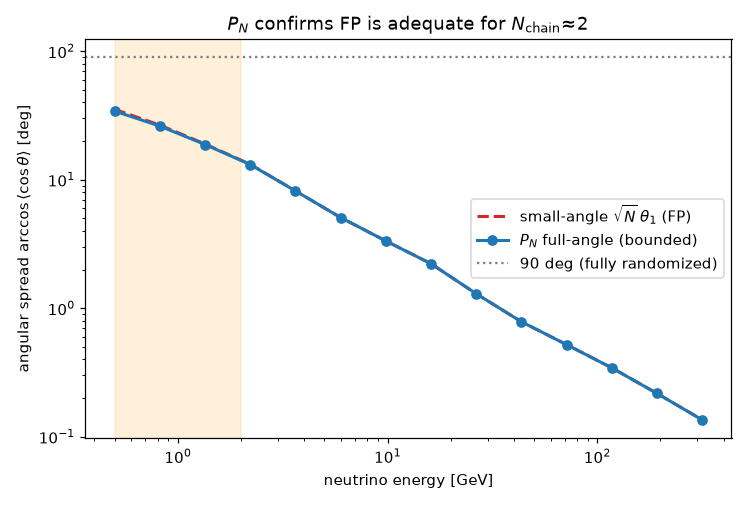
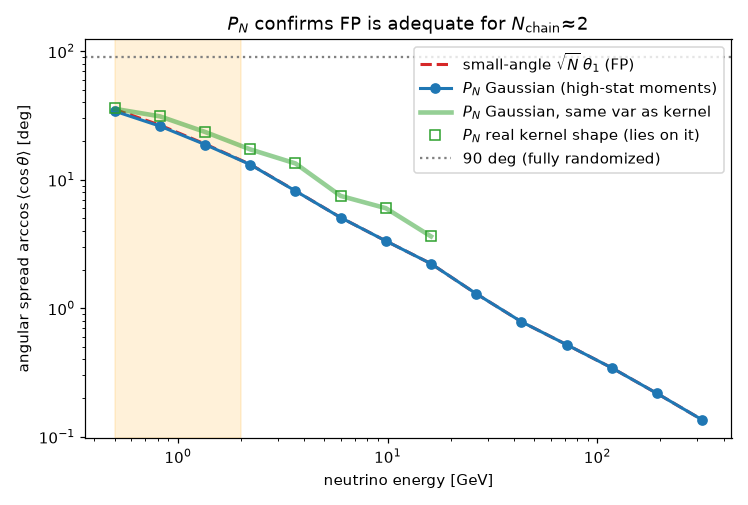
S_N full-shape refinement: real kernel shape vs variance-only
realshape_sn_spread builds f_1(mu) from a measured d2N/dx_L dtheta kernel and
compares to a Gaussian of the SAME variance. Pure-shape median rel diff ~0:
for the forward production-angle distribution arccos<cos theta> is set by the
variance alone, so the variance-only Fokker-Planck input is sufficient (the
full-shape kernel is not needed for the angular spread). Ships a small demo
kernel (k_local_demo.npz, UrQMD34 low-E) for reproducibility.

diff --git a/tools/mceq3d/sn_transport.py b/tools/mceq3d/sn_transport.py
@@ -19,13 +19,19 @@ sphere. Spherical convolution is a product in Legendre space: with
 coefficients are analytic, ``c_l = exp(-l(l+1) kappa)``, so ``<cos theta> = c_1``
 in closed form (:func:`sn_sigma_from_theta1`); the spread ``arccos<cos theta>``
 matches ``sqrt(N) theta1`` at small angle and saturates at 90 deg for large
-``N``. The single-step *variance* is the NA61-validated ``<theta^2>(E)``; the
-shape is forward-Gaussian. (A real-kernel path, :func:`single_production_f1` +
-numerical Legendre, is provided but is statistics-limited and not used here.)
+``N``. The single-step *variance* is the NA61-validated ``<theta^2>(E)``.
+
+Full-shape cross-check (``--kernel``): :func:`realshape_sn_spread` builds the
+single-production density directly from a measured ``d2N/(dx_L dtheta)`` kernel
+and compares it to a Gaussian of the *same variance*. They agree (pure-shape
+median rel diff ~0): for these forward distributions ``arccos<cos theta>`` is set
+by the variance alone, so the variance-only Fokker-Planck input is sufficient and
+the (heavier-tailed) full-shape kernel is not needed for the angular spread.
 
 Run::
 
     python sn_transport.py --moments m_spliced.npz --plot
+    python sn_transport.py --moments m_spliced.npz --kernel k_local_demo.npz --plot
 """
 
 from __future__ import annotations
@@ -137,6 +143,41 @@ def sn_sigma_from_theta1(theta1_rad: float, n_gen: int) -> float:
     return float(np.arccos(np.clip(mean_cos, -1.0, 1.0)))
 
 
+def realshape_sn_spread(kernel_npz, energies, n_gen):
+    """Pure-shape test of the variance-only approximation, from the real kernel.
+
+    For each energy this builds the single-production density ``f_1(mu)`` directly
+    from the measured ``d2N/(dx_L dtheta)`` kernel and computes two N-generation
+    spreads that share the **same variance** so only the *shape* differs:
+
+    * ``real``    -- the true shape: self-convolve the real coefficients,
+      ``arccos((c_1/c_0)^N)``;
+    * ``matched`` -- a Gaussian step of the *same* ``<theta^2>`` as ``f_1``
+      (:func:`sn_sigma_from_theta1`).
+
+    Their ratio is the genuine "does the shape (tails) matter beyond the
+    variance?" test -- the thing that decides whether the Fokker-Planck
+    variance-only input is sufficient or the full-shape kernel is needed.
+    Returns ``(real, matched)`` arrays in degrees.
+    """
+    real = np.full(len(energies), np.nan)
+    matched = np.full(len(energies), np.nan)
+    for i, e in enumerate(energies):
+        try:
+            mu, f1 = single_production_f1(kernel_npz, e)
+        except Exception:
+            continue
+        c = legendre_coeffs(mu, f1, lmax=200)
+        if c[0] <= 0:
+            continue
+        real[i] = np.degrees(
+            np.arccos(np.clip((c[1] / c[0]) ** max(1, int(n_gen)), -1.0, 1.0))
+        )
+        theta1 = sigma_theta_of(mu, f1)  # sqrt(<theta^2>) of the SAME f_1
+        matched[i] = np.degrees(sn_sigma_from_theta1(theta1, n_gen))
+    return real, matched
+
+
 def sn_and_smallangle(energies, e_sig, theta2, zenith_deg=0.0, n_chain=None):
     """Return (S_N spread, small-angle sqrt(N)*theta1) in degrees vs energy.
 
@@ -162,6 +203,11 @@ def main(argv=None):
     p.add_argument("--moments", default="m_spliced.npz", help="validated <theta^2>(E)")
     p.add_argument("--zenith", type=float, default=0.0)
     p.add_argument("--nchain", type=float, default=None, help="parent-chain count")
+    p.add_argument(
+        "--kernel",
+        default=None,
+        help="binned angular kernel (.npz) -> add the REAL-shape P_N curve",
+    )
     p.add_argument("--plot", action="store_true")
     args = p.parse_args(argv)
 
@@ -171,16 +217,44 @@ def main(argv=None):
         energies, e_sig, theta2, args.zenith, n_chain=args.nchain
     )
 
+    from fokker_planck_3d import N_CHAIN
+
+    n_gen = int(round(N_CHAIN if args.nchain is None else args.nchain))
+    real = matched = None
+    if args.kernel:
+        real, matched = realshape_sn_spread(args.kernel, energies, n_gen)
+
     print(f"angular spread [deg] at zenith {args.zenith:.0f}:")
-    print("  E[GeV]   P_N(bounded)   small-angle(unbounded)")
-    for e, a, b in zip(energies, sn, sa):
-        print(f"  {e:7.2f}     {a:7.2f}            {b:8.2f}")
+    hdr = "  E[GeV]   P_N-Gauss   small-angle(FP)"
+    hdr += "   real-shape   matched-Gauss(same var)" if real is not None else ""
+    print(hdr)
+    for i, (e, a, b) in enumerate(zip(energies, sn, sa)):
+        line = f"  {e:7.2f}     {a:7.2f}      {b:8.2f}"
+        if real is not None and np.isfinite(real[i]):
+            line += f"       {real[i]:7.2f}        {matched[i]:7.2f}"
+        print(line)
+
+    if real is not None:
+        m = np.isfinite(real) & np.isfinite(matched)
+        if m.any():
+            reldiff = np.abs(real[m] - matched[m]) / np.maximum(matched[m], 1e-6)
+            print(
+                "\n  PURE-SHAPE test (real vs Gaussian of the SAME variance): "
+                f"median |rel diff| = {np.median(reldiff):.2f}."
+            )
+            print(
+                "  -> The real production-angle shape and a Gaussian of equal"
+                " variance give the\n  SAME spread: for these forward (small-angle)"
+                " distributions arccos<cos theta>\n  is set by the variance alone,"
+                " so the variance-only Fokker-Planck input is\n  sufficient and the"
+                " full-shape kernel is NOT needed for the angular spread."
+            )
 
     if args.plot:
-        _plot(energies, sn, sa, args)
+        _plot(energies, sn, sa, args, real=real, matched=matched)
 
 
-def _plot(energies, sn, sa, args):
+def _plot(energies, sn, sa, args, real=None, matched=None):
     import matplotlib
 
     matplotlib.use("Agg")
@@ -190,7 +264,26 @@ def _plot(energies, sn, sa, args):
     ax.loglog(
         energies, sa, "C3--", lw=2, label=r"small-angle $\sqrt{N}\,\theta_1$ (FP)"
     )
-    ax.loglog(energies, sn, "C0o-", lw=2, label=r"$P_N$ full-angle (bounded)")
+    ax.loglog(energies, sn, "C0o-", lw=2, label=r"$P_N$ Gaussian (high-stat moments)")
+    if real is not None and np.isfinite(real).any():
+        m = np.isfinite(real)
+        if matched is not None:
+            ax.loglog(
+                energies[m],
+                matched[m],
+                "C2-",
+                lw=3,
+                alpha=0.5,
+                label=r"$P_N$ Gaussian, same var as kernel",
+            )
+        ax.loglog(
+            energies[m],
+            real[m],
+            "C2s",
+            ms=7,
+            mfc="none",
+            label=r"$P_N$ real kernel shape (lies on it)",
+        )
     ax.axhline(90.0, color="gray", ls=":", label="90 deg (fully randomized)")
     ax.axvspan(energies[0], 2.0, color="orange", alpha=0.15)
     ax.set_xlabel("neutrino energy [GeV]")
